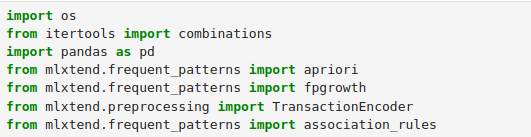
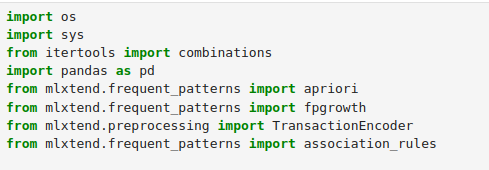
Handle some edge case

Changed region(s): [[0.0, 0.5839, 0.8896, 0.9635], [0.0, 0.0584, 0.7362, 0.5839]]

diff --git a/MidtermAlgorithm.py b/MidtermAlgorithm.py
@@ -1,4 +1,5 @@
 import os
+import sys
 from itertools import combinations # important for getting all the possible k itemsets
 import pandas as pd
 from mlxtend.frequent_patterns import apriori
@@ -126,6 +127,7 @@ while len(itemset_frequent_k) >= k_val:
     itemset_frequent_k = collect_frequent_itemset(itemset_k, min_support)
     updated_itemset.update(itemset_frequent_k)
     k_val += 1
+print()
 for key_s, val_s in updated_itemset.items():
     print(f"Itemset: {key_s}, Support: {val_s}\n")
 item_conf, item_supp = get_itemsets_with_confidence(updated_itemset, min_confidence)
@@ -151,7 +153,6 @@ for key_c,val_c in item_conf.items():
 te = TransactionEncoder()
 te_ary = te.fit(item_k).transform(item_k)
 dataframe = pd.DataFrame(te_ary, columns=te.columns_)
-
 checking_apriori = apriori(dataframe, min_support=min_support, use_colnames=True)
 print()
 print("Apriori Library")
@@ -160,7 +161,9 @@ print()
 checking_fpgrowth = fpgrowth(dataframe, min_support=min_support, use_colnames=True)
 print("FP Tree Library")
 print(checking_fpgrowth)
-ar = association_rules(checking_apriori, metric='confidence', min_threshold=min_confidence)
-print()
-print("Association Rules Library")
-print(ar)
+if len(checking_apriori.index) > 0:
+    ar = association_rules(checking_apriori, metric='confidence', min_threshold=min_confidence)
+    print()
+    print("Association Rules Library")
+    ar = ar[['antecedents', 'consequents', 'support', 'confidence']]
+    print(ar)
